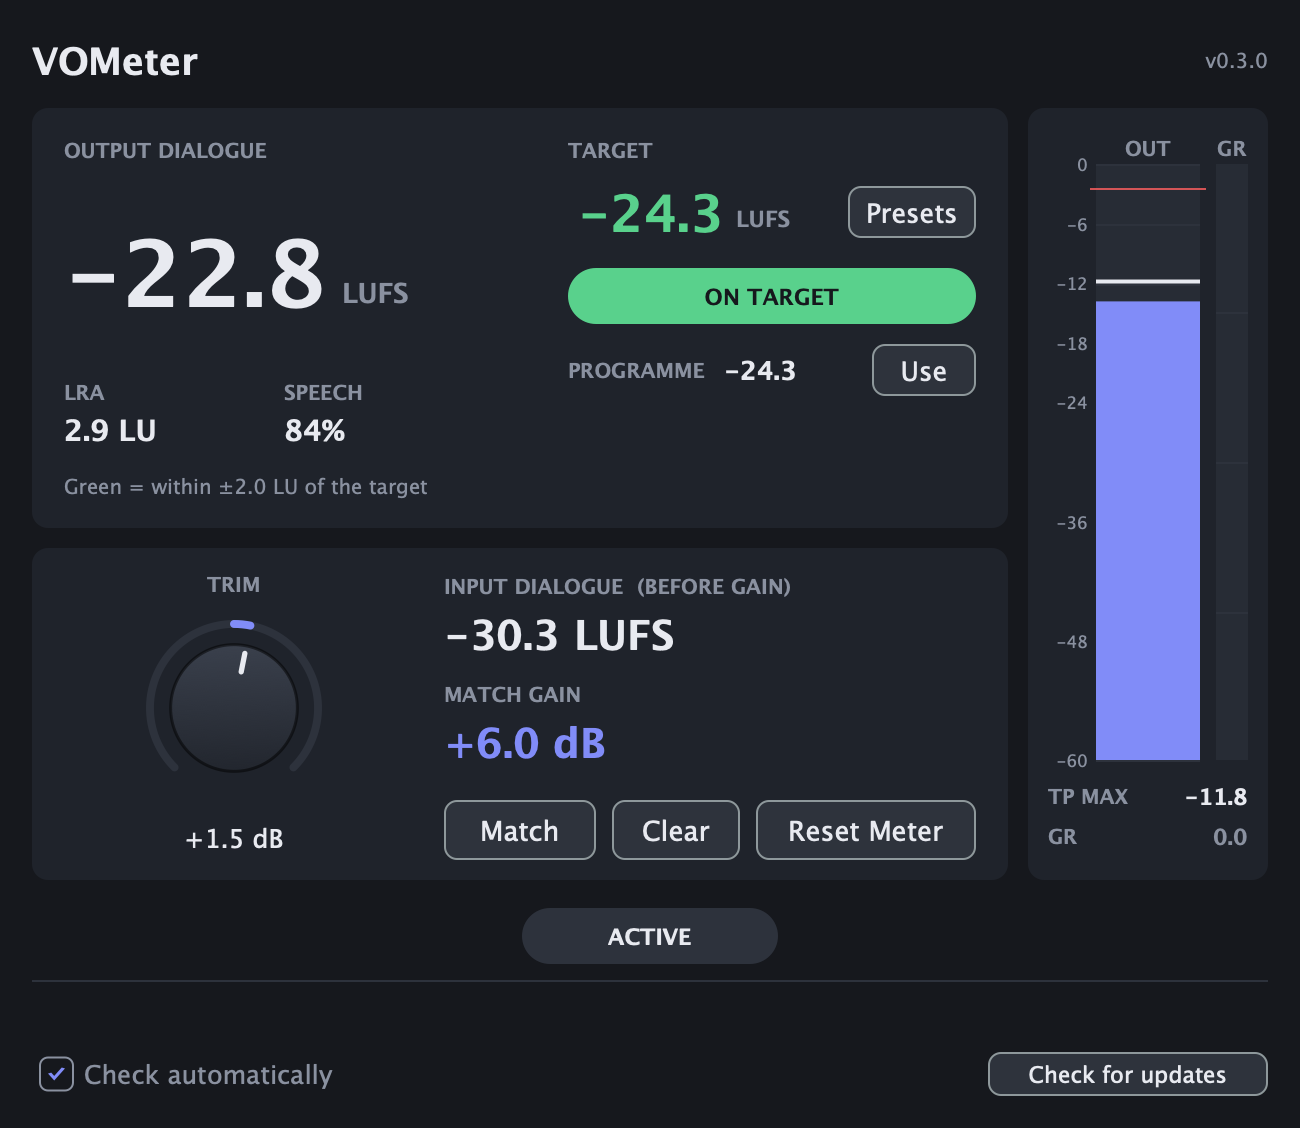
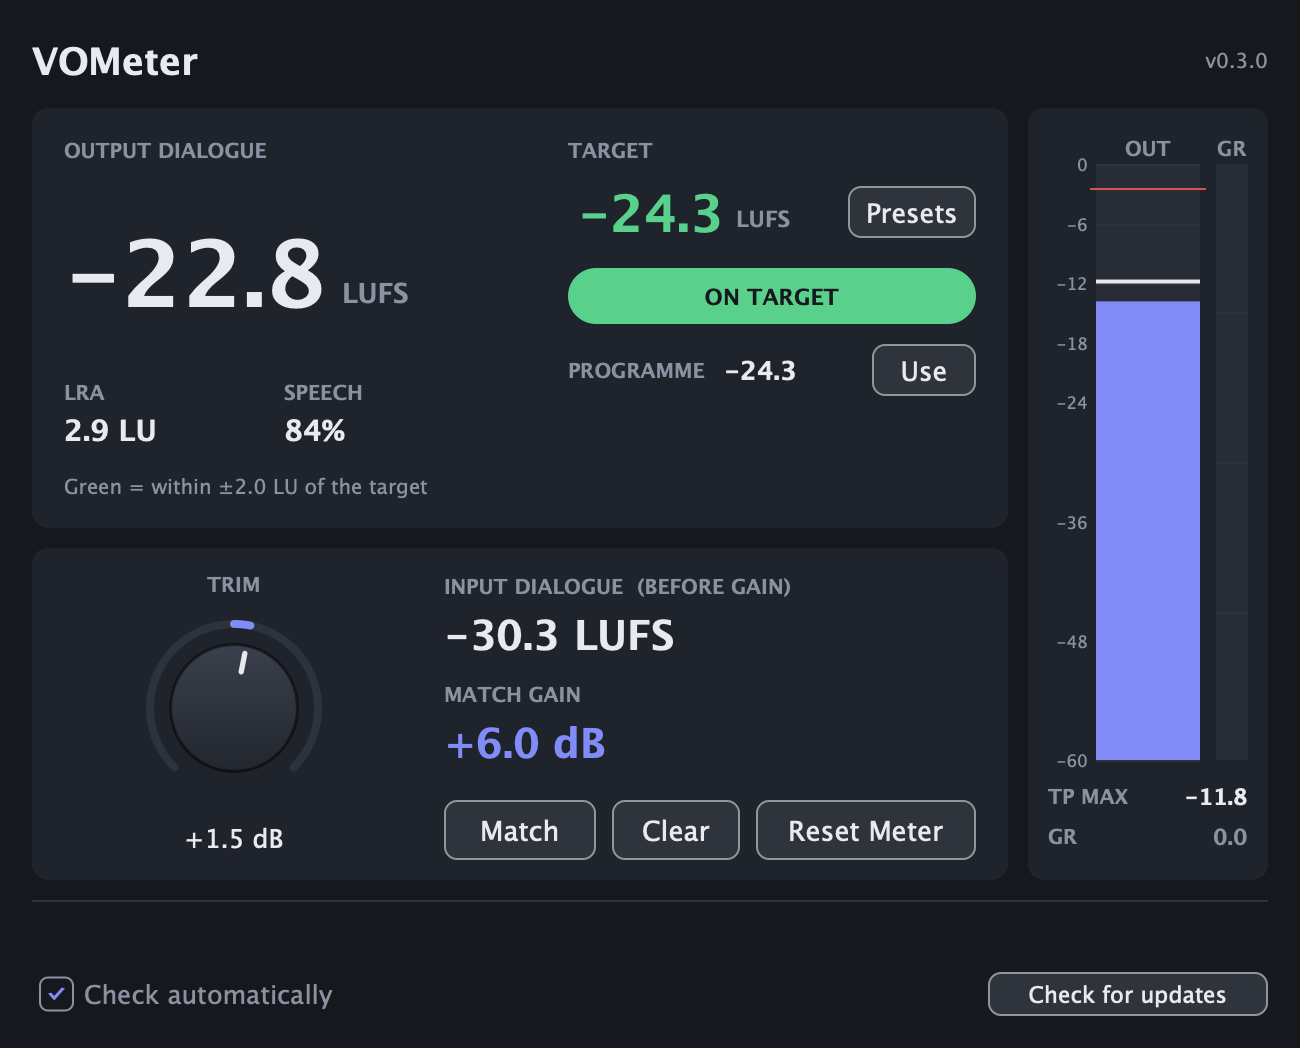
Remove the Bypass pill; bypass from the DAW
The window has no bypass button any more. The bypass parameter stays as the
host's bypass (getBypassParameter), so the DAW's bypass is click-free and
latency-compensated, and saved sessions keep their parameter.

diff --git a/Source/PluginEditor.cpp b/Source/PluginEditor.cpp
@@ -52,8 +52,7 @@ VOMeterEditor::VOMeterEditor (VOMeterProcessor& p)
       footer (p.updateChecker),
       targetAttachment (*p.apvts.getParameter (VOMeterProcessor::targetId),
                         [this] (float v) { targetLabel.setText (juce::String (v, 1), juce::dontSendNotification); repaint(); }),
-      trimAttachment (p.apvts, VOMeterProcessor::trimId, trimKnob),
-      bypassAttachment (p.apvts, VOMeterProcessor::bypassId, bypassButton)
+      trimAttachment (p.apvts, VOMeterProcessor::trimId, trimKnob)
 {
     setLookAndFeel (&lnf);
 
@@ -108,9 +107,6 @@ VOMeterEditor::VOMeterEditor (VOMeterProcessor& p)
     resetButton.setTooltip ("Clear all readings, including the programme's. The trim and Match gain are kept.");
     resetButton.onClick = [this] { audioProcessor.requestMeterReset(); resetPending = true; repaint(); };
 
-    brand::makePill (bypassButton, "ACTIVE", "BYPASSED");
-    bypassButton.setTooltip ("Bypass the trim and limiter (also linked to your DAW's bypass).");
-    addAndMakeVisible (bypassButton);
 
     addChildComponent (mixQuestion);
     mixQuestion.onAnswer = [this] (bool fiveOne)
@@ -131,7 +127,7 @@ VOMeterEditor::VOMeterEditor (VOMeterProcessor& p)
     for (int c = 0; c < vometer::kMaxChannels; ++c)
         levelDb[c] = holdDb[c] = -100.0f;
 
-    setSize (520 + kMeterStripWidth + 10, 600 - (brand::headerHeight - kTitleRowHeight) + 2 + 36 - 80 + 24);
+    setSize (520 + kMeterStripWidth + 10, 600 - (brand::headerHeight - kTitleRowHeight) + 2 + 36 - 80 + 24 - 40);
     startTimerHz (kFrameRate);
     timerCallback();
 }
@@ -442,9 +438,7 @@ void VOMeterEditor::resized()
     footer.setBounds (area.removeFromBottom (brand::footerHeight));
     mixQuestion.setBounds (getLocalBounds().withBottom (footer.getY() - 6));
     measureQuestion.setBounds (mixQuestion.getBounds());
-    area.removeFromBottom (6);
-    bypassButton.setBounds (area.removeFromBottom (32).withSizeKeepingCentre (130, 30));
-    area.removeFromBottom (12);
+    area.removeFromBottom (10);   // no Bypass pill: the DAW's bypass drives the bypass parameter
 
     meterPanel = area.removeFromRight (kMeterStripWidth);
     area.removeFromRight (10);

diff --git a/Source/PluginEditor.h b/Source/PluginEditor.h
@@ -15,7 +15,6 @@
 //              the max true peak since reset and the gain reduction as numbers
 //   gain     - Trim knob (your ride; alt-click = 0 dB), input loudness, Match gain,
 //              Match / Clear / Reset Meter
-//   pills    - Bypass
 // A one-time question covers the body until it's answered: "stereo or 5.1 mix?"
 // on a mono track, "dialogue-gated or integrated?" on a stereo or 5.1 track.
 // Either answer can be changed later in the Presets menu.
@@ -152,13 +151,11 @@ private:
     juce::Slider trimKnob;
     juce::TextButton matchButton { "Match" }, clearMatchButton { "Clear" }, resetButton { "Reset Meter" };
     juce::TextButton useProgrammeButton { "Use" };
-    juce::ToggleButton bypassButton { "Bypass" };
     ChoiceQuestion mixQuestion, measureQuestion;
     UpdateFooter footer;
 
     juce::ParameterAttachment targetAttachment;
     juce::AudioProcessorValueTreeState::SliderAttachment trimAttachment;
-    juce::AudioProcessorValueTreeState::ButtonAttachment bypassAttachment;
 
     // Areas laid out in resized(), painted in paint().
     juce::Rectangle<int> loudPanel, bigReadout, statsArea, targetCaption, statusArea, programmeArea, hintArea;

diff --git a/Source/PluginProcessor.cpp b/Source/PluginProcessor.cpp
@@ -69,6 +69,8 @@ juce::AudioProcessorValueTreeState::ParameterLayout VOMeterProcessor::createLayo
             .withStringFromValueFunction ([] (float v, int) { return juce::String (v, 1) + " LUFS"; })
             .withValueFromStringFunction ([] (const juce::String& s) { return s.retainCharacters ("+-.0123456789").getFloatValue(); })));
 
+    // No button in the window (0.3.0): it's the DAW's bypass, via getBypassParameter(),
+    // so the host's bypass is click-free and latency-compensated. Kept for saved sessions.
     layout.add (std::make_unique<juce::AudioParameterBool> (
         juce::ParameterID { bypassId, 1 }, "Bypass", false));
 

diff --git a/README.md b/README.md
@@ -94,7 +94,7 @@ duck harder; riding the narration fader doesn't.
 | Clear | Sets the Match gain back to 0 dB and resets the meter |
 | Trim | Your ride on top of the Match gain, -18 to +18 dB (default 0). Automatable. **Alt-click** (or double-click) resets it to 0 dB. Mono tracks only: hidden and ignored on stereo and 5.1 tracks (a full mix). |
 | Reset Meter | Clears every reading, including the programme's. It doesn't touch the trim, Match gain or target. |
-| Bypass | Click-free bypass, also linked to your DAW's bypass. It is latency-compensated, so the output is bit-for-bit the input. |
+| Bypass | No button: use your DAW's bypass. VOMeter hands it its internal bypass, so it's click-free and latency-compensated (the output is bit-for-bit the input). |
 
 | Readout | Meaning |
 |---------|---------|
